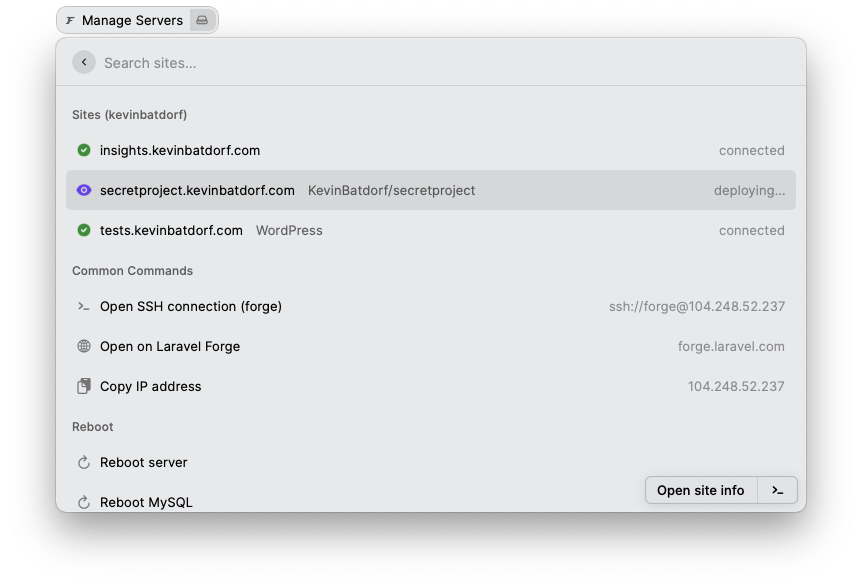
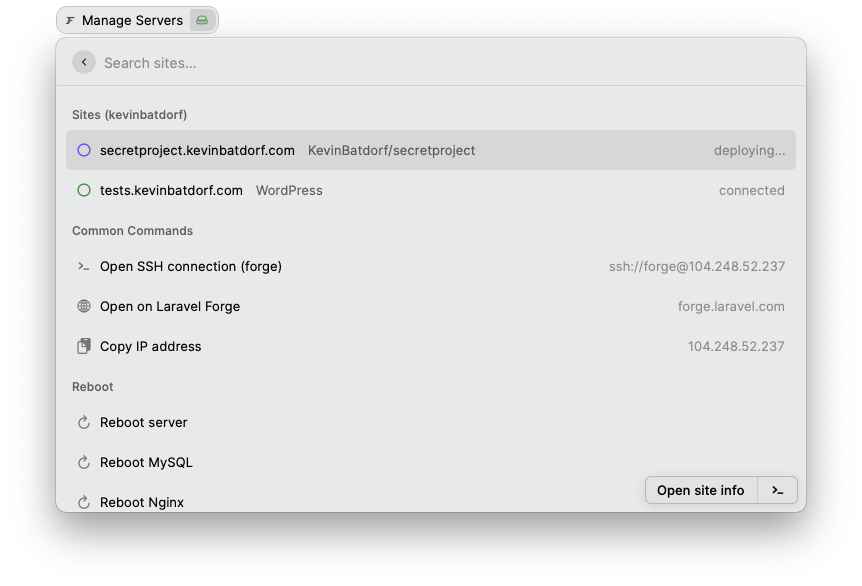
Add caching

diff --git a/src/Server.tsx b/src/Server.tsx
@@ -6,31 +6,74 @@ import {
   Icon,
   preferences,
   PushAction,
+  allLocalStorageItems,
+  setLocalStorageItem,
+  LocalStorageValues,
 } from "@raycast/api";
 import { useEffect, useState } from "react";
 import { Server } from "./api/Server";
-import { SitesList } from "./Site";
-import { getProviderIcon } from "./helpers";
+import { Site } from "./api/Site";
+import { SitesList, ISite } from "./Site";
+import { getProviderIcon, useIsMounted } from "./helpers";
 
 export const ServersList = () => {
   const [servers, setServers] = useState<IServer[]>([]);
+  const [siteData, setSiteData] = useState<LocalStorageValues>({});
+  const isMounted = useIsMounted();
+
+  /**
+   * This will attempt to fetch and cache sites as the user
+   * navigates. However, the cache isn't useful until they
+   * reload the extension. As far as I can tell, it's because
+   * We can't re-evaluate the props in the push action component
+   */
+  const maybeFetchAndCacheSites = async (serverId: string) => {
+    const key = `forge-sites-${serverId.toString()}`;
+    // If the sites already exist in the cache, or not found, do nothign
+    if (siteData[key] || !isMounted.current) return;
+    const server = servers.find((s) => s.id.toString() === serverId) as IServer;
+    if (!Object.keys(server).length) return;
+    const thisSiteData = (await Site.getAll(server)) as ISite[] | undefined;
+    thisSiteData && (await setLocalStorageItem(`forge-sites-${serverId}`, JSON.stringify(thisSiteData)));
+  };
+
   useEffect(() => {
-    // TODO: Maybe cahe these for first load? Wait on user feedback
-    Server.getAll().then((servers: Array<IServer> | undefined) => {
-      servers && setServers(servers);
-    });
+    allLocalStorageItems()
+      .then((data) => {
+        if (!isMounted.current) return;
+        const servers = data["forge-servers"];
+        delete data["forge-servers"];
+        const serverList = JSON.parse(servers?.toString() ?? "[]") as Array<IServer>;
+        setServers(serverList?.length ? serverList : []);
+        setSiteData(data ?? {});
+      })
+      .finally(() => {
+        if (!isMounted.current) return;
+        Server.getAll().then(async (servers: Array<IServer> | undefined) => {
+          if (!isMounted.current) return;
+          // Add the server list to storage to avoid content flash
+          servers && setServers(servers);
+          await setLocalStorageItem("forge-servers", JSON.stringify(servers));
+        });
+      });
   }, []);
 
   return (
-    <List isLoading={servers.length > 0} searchBarPlaceholder="Search servers...">
-      {servers.map((server: IServer) => (
-        <ServerListItem key={server.id} server={server} />
-      ))}
+    <List
+      isLoading={!servers?.length}
+      searchBarPlaceholder="Search servers..."
+      onSelectionChange={(serverId) => serverId && maybeFetchAndCacheSites(serverId)}
+    >
+      {servers.map((server: IServer) => {
+        const key = `forge-sites-${server.id.toString()}`;
+        const sites = JSON.parse(siteData[key] ?? "[]") as ISite[];
+        return <ServerListItem key={server.id} server={server} sites={sites} />;
+      })}
     </List>
   );
 };
 
-const ServerListItem = ({ server }: { server: IServer }) => {
+const ServerListItem = ({ server, sites }: { server: IServer; sites: ISite[] }) => {
   return (
     <List.Item
       id={server.id.toString()}
@@ -43,7 +86,7 @@ const ServerListItem = ({ server }: { server: IServer }) => {
       actions={
         <ActionPanel>
           <ActionPanel.Section>
-            <PushAction title="Open server info" target={<SingleServerView server={server} />} />
+            <PushAction title="Open server info" target={<SingleServerView server={server} sites={sites} />} />
           </ActionPanel.Section>
           <ActionPanel.Section title="Commands">
             <ServerCommands server={server} />
@@ -54,12 +97,12 @@ const ServerListItem = ({ server }: { server: IServer }) => {
   );
 };
 
-const SingleServerView = ({ server }: { server: IServer }) => {
+const SingleServerView = ({ server, sites }: { server: IServer; sites: ISite[] }) => {
   const sshUser = preferences?.laravel_forge_ssh_user?.value ?? "forge";
   return (
     <List searchBarPlaceholder="Search sites...">
       <List.Section title={`Sites (${server.name})`}>
-        <SitesList server={server} />
+        <SitesList server={server} sites={sites} />
       </List.Section>
       <List.Section title="Common Commands">
         <List.Item

diff --git a/src/helpers.ts b/src/helpers.ts
@@ -2,7 +2,7 @@ import { useEffect, useRef, useState } from "react";
 import { API_RATE_LIMIT } from "./config";
 import fetch from "node-fetch";
 import { ISite } from "./Site";
-import { Color } from "@raycast/api";
+import { Color, Icon } from "@raycast/api";
 
 export const getProviderIcon = (provider: string): string => {
   switch (provider) {
@@ -21,7 +21,7 @@ export const getProviderIcon = (provider: string): string => {
   }
   return "";
 };
-export function useIsMounted() {
+export const useIsMounted = () => {
   const isMounted = useRef(false);
   useEffect(() => {
     isMounted.current = true;
@@ -30,7 +30,7 @@ export function useIsMounted() {
     };
   });
   return isMounted;
-}
+};
 
 export const usePolling = (callback: () => Promise<void>) => {
   const [isPolling, setIsPolling] = useState(false);
@@ -83,22 +83,19 @@ export const checkServerisOnline = async (urls: Array<string>): Promise<boolean>
 
 export const siteStatusState = (site: ISite) => {
   const details = {
-    icon: { source: "ok.png", tintColor: Color.Green },
+    icon: { source: Icon.Circle, tintColor: Color.Green },
     text: "connected",
   };
   if (site.deploymentStatus === "failed") {
     details.icon.tintColor = Color.Red;
-    details.icon.source = "error.png";
     details.text = "deployment failed";
   }
   if (!site.isOnline) {
     details.icon.tintColor = Color.Red;
-    details.icon.source = "error.png";
     details.text = "offline";
   }
   if (site.deploymentStatus === "deploying") {
     details.icon.tintColor = Color.Purple;
-    details.icon.source = "eye.png";
     details.text = "deploying...";
   }
 

diff --git a/src/Site.tsx b/src/Site.tsx
@@ -1,15 +1,28 @@
-import { Icon, OpenInBrowserAction, List, ActionPanel, PushAction, CopyToClipboardAction, Color } from "@raycast/api";
+import {
+  Icon,
+  OpenInBrowserAction,
+  List,
+  ActionPanel,
+  PushAction,
+  CopyToClipboardAction,
+  Color,
+  setLocalStorageItem,
+} from "@raycast/api";
 import { useState } from "react";
 import { Site } from "./api/Site";
 import { IServer, ServerCommands } from "./Server";
 import { siteStatusState, useIsMounted, usePolling } from "./helpers";
 
-export const SitesList = ({ server }: { server: IServer }) => {
-  const [sites, setSites] = useState<ISite[]>([]);
+export const SitesList = ({ server, sites: sitesArray }: { server: IServer; sites: ISite[] }) => {
+  const [sites, setSites] = useState<ISite[]>(sitesArray);
   const isMounted = useIsMounted();
   usePolling(() =>
-    Site.getAll(server).then((sites: ISite[] | undefined) => {
-      isMounted.current && sites && setSites(sites);
+    Site.getAll(server).then(async (sites: ISite[] | undefined) => {
+      if (isMounted.current && sites?.length) {
+        setSites(sites);
+        // Add the server list to storage to avoid content flash
+        await setLocalStorageItem(`forge-sites-${server.id}`, JSON.stringify(sites));
+      }
     })
   );
 
@@ -23,7 +36,6 @@ export const SitesList = ({ server }: { server: IServer }) => {
 };
 
 const SiteListItem = ({ site, server }: { site: ISite; server: IServer }) => {
-  //   console.log(site);
   const { icon: stateIcon, text: stateText } = siteStatusState(site);
   return (
     <List.Item

diff --git a/src/api/Server.ts b/src/api/Server.ts
@@ -79,5 +79,5 @@ const getServers = async (token: string) => {
 };
 
 type ServersResponse = {
-  servers: Array<IServer>;
+  servers: IServer[];
 };

diff --git a/README.md b/README.md
@@ -3,17 +3,17 @@ A command center for sites managed by [Laravel Forge](https://forge.laravel.com/
 
 https://github.com/KevinBatdorf/laravel-forge-raycast
 
-Consider sponsoring this project via [GitHub Sponsors](https://github.com/KevinBatdorf).
-
+<img src="assets/screenshot-dark.png" />
 <img src="assets/screenshot.png" />
 
 ## Features from Forge API
 - View site details
+- View deployment status
 - Multiple accounts
 - Trigger deploy script
 - Reboot services
 
-## Non-API Features
+## Non-Forge API Features
 - Check site connectivity
 - Open terminal session
 - Copy IP addess
